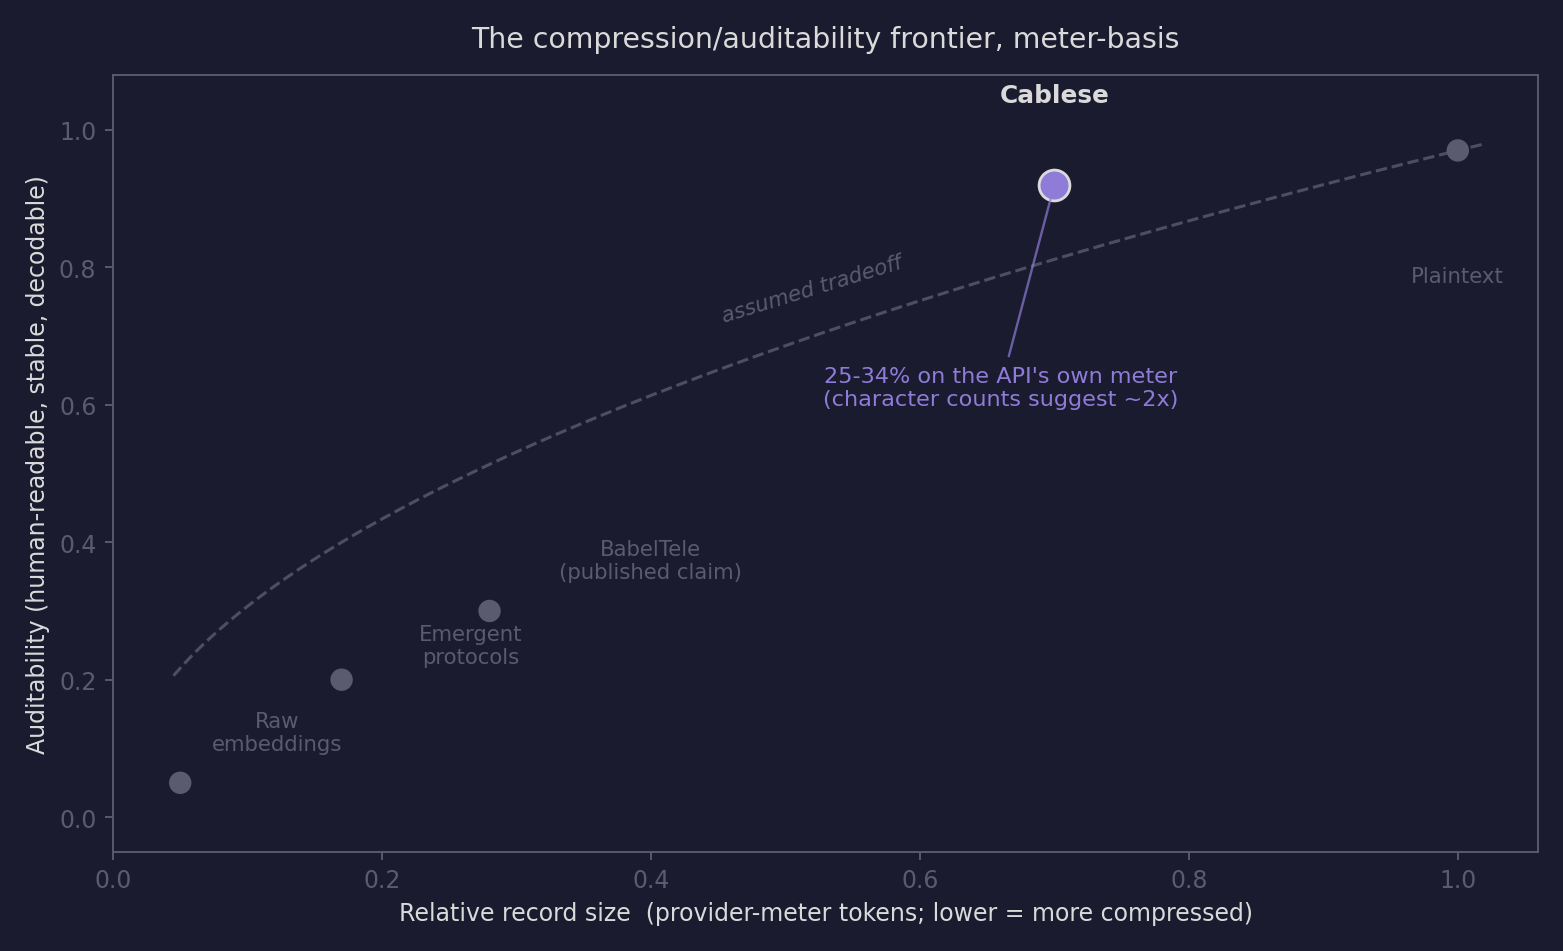
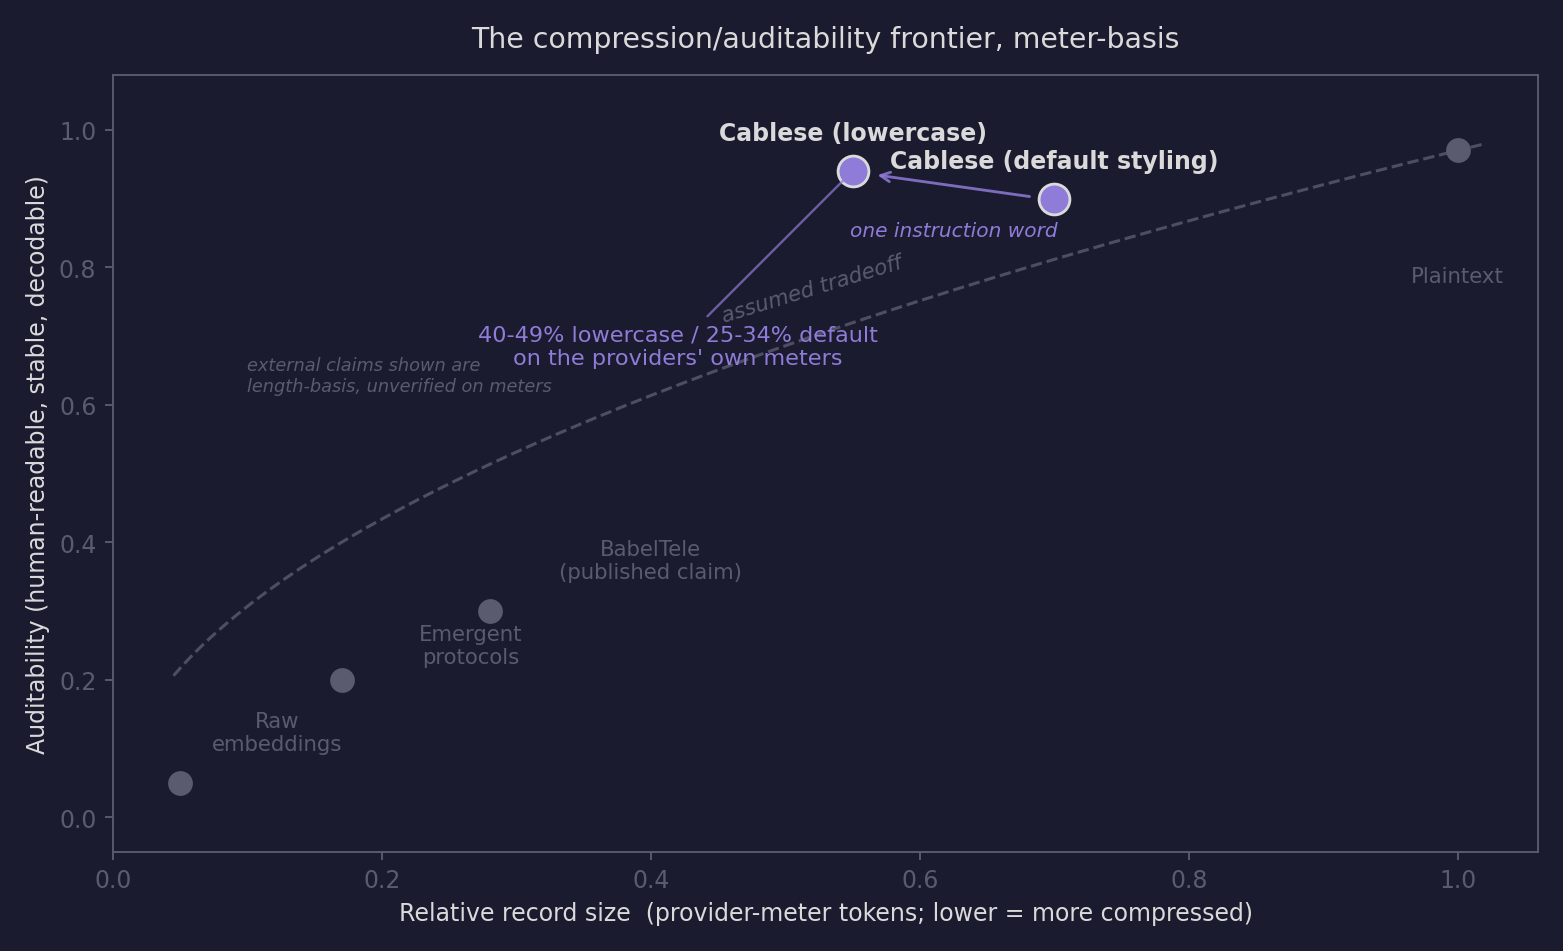
chart: two cablese positions (lowercase 0.55 / default 0.70) + one-instruction-word arrow; external claims flagged length-basis

diff --git a/charts/compression_frontier.py b/charts/compression_frontier.py
@@ -2,8 +2,7 @@
 """Compression/auditability frontier chart (dark theme, site palette).
 
 2026-10-05 correction: cablese position updated to meter-basis savings
-(25-34% visible-token, provider meters). Character-count measures
-suggest roughly 2x more; the chart annotates both.
+(both stylings on provider meters: lowercase 40-49%, default 25-34%).
 """
 import matplotlib
 matplotlib.use("Agg")
@@ -22,25 +21,39 @@ ax.plot(xs, xs ** 0.5 * 0.97, ls="--", color=DIM, lw=1.3, alpha=0.8)
 ax.text(0.52, 0.72, "assumed tradeoff", color=DIM, fontsize=9,
         rotation=17, ha="center", style="italic")
 
+# Cablese occupies TWO verified positions: default ALL-CAPS styling
+# (25-34% meter savings across families) and the lowercase instruction
+# (40-49%). Casing is free tokenizer efficiency; the register is constant.
+cablese_pts = [(0.70, 0.90, "Cablese (default styling)"),
+               (0.55, 0.94, "Cablese (lowercase)")]
+for x, y, label in cablese_pts:
+    ax.scatter([x], [y], s=170, color=ACC, zorder=3,
+               edgecolor=FG, linewidths=1.2)
+    ax.annotate(label, (x, y), xytext=(x, y + 0.045),
+                color=FG, fontsize=10, weight="bold", ha="center")
+
+ax.annotate("", xy=(0.565, 0.935), xytext=(0.685, 0.902),
+            arrowprops=dict(arrowstyle="->", color=ACC, lw=1.2, alpha=0.85))
+ax.text(0.625, 0.845, "one instruction word", color=ACC, fontsize=8.5,
+        ha="center", style="italic")
+
 points = [
     ("Plaintext",        1.00, 0.97, DIM,  (0, -16)),
-    ("Cablese",          0.70, 0.92, ACC,  (0, 10)),
     ("BabelTele\n(published claim)", 0.28, 0.30, DIM, (10, 4)),
     ("Emergent\nprotocols", 0.17, 0.20, DIM, (8, 2)),
     ("Raw\nembeddings",  0.05, 0.05, DIM, (6, 4)),
 ]
 for label, x, y, color, (dx, dy) in points:
-    big = color == ACC
-    ax.scatter([x], [y], s=170 if big else 90, color=color,
-               zorder=3, edgecolor=FG if big else "none", linewidths=1.2)
+    ax.scatter([x], [y], s=90, color=color, zorder=3)
     ax.annotate(label, (x, y), xytext=(x + dx * 0.012, y + dy * 0.012),
-                color=FG if big else DIM, fontsize=10.5 if big else 9,
-                weight="bold" if big else "normal", ha="center")
+                color=DIM, fontsize=9, ha="center")
 
-ax.annotate("25-34% on the API's own meter\n(character counts suggest ~2x)",
-            xy=(0.70, 0.92), xytext=(0.66, 0.60),
+ax.annotate("40-49% lowercase / 25-34% default\non the providers' own meters",
+            xy=(0.55, 0.94), xytext=(0.42, 0.66),
             color=ACC, fontsize=9.5, ha="center",
             arrowprops=dict(arrowstyle="-", color=ACC, lw=1.0, alpha=0.7))
+ax.text(0.10, 0.62, "external claims shown are\nlength-basis, unverified on meters",
+        color=DIM, fontsize=7.5, style="italic", ha="left")
 
 ax.set_xlim(0, 1.06)
 ax.set_ylim(-0.05, 1.08)
